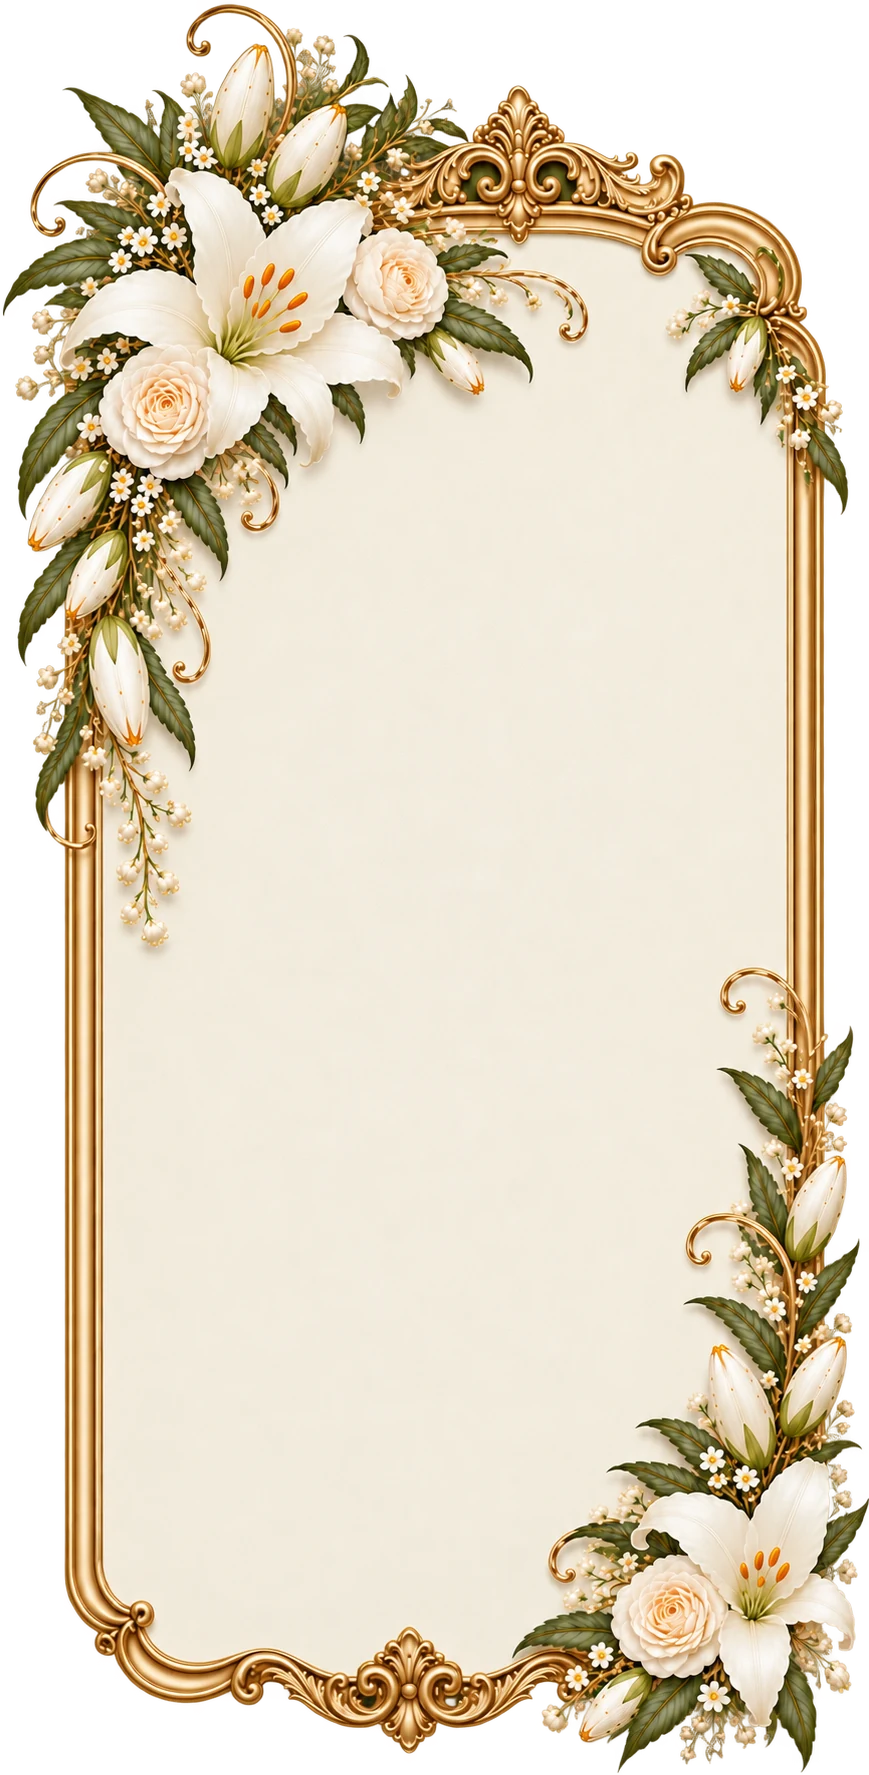
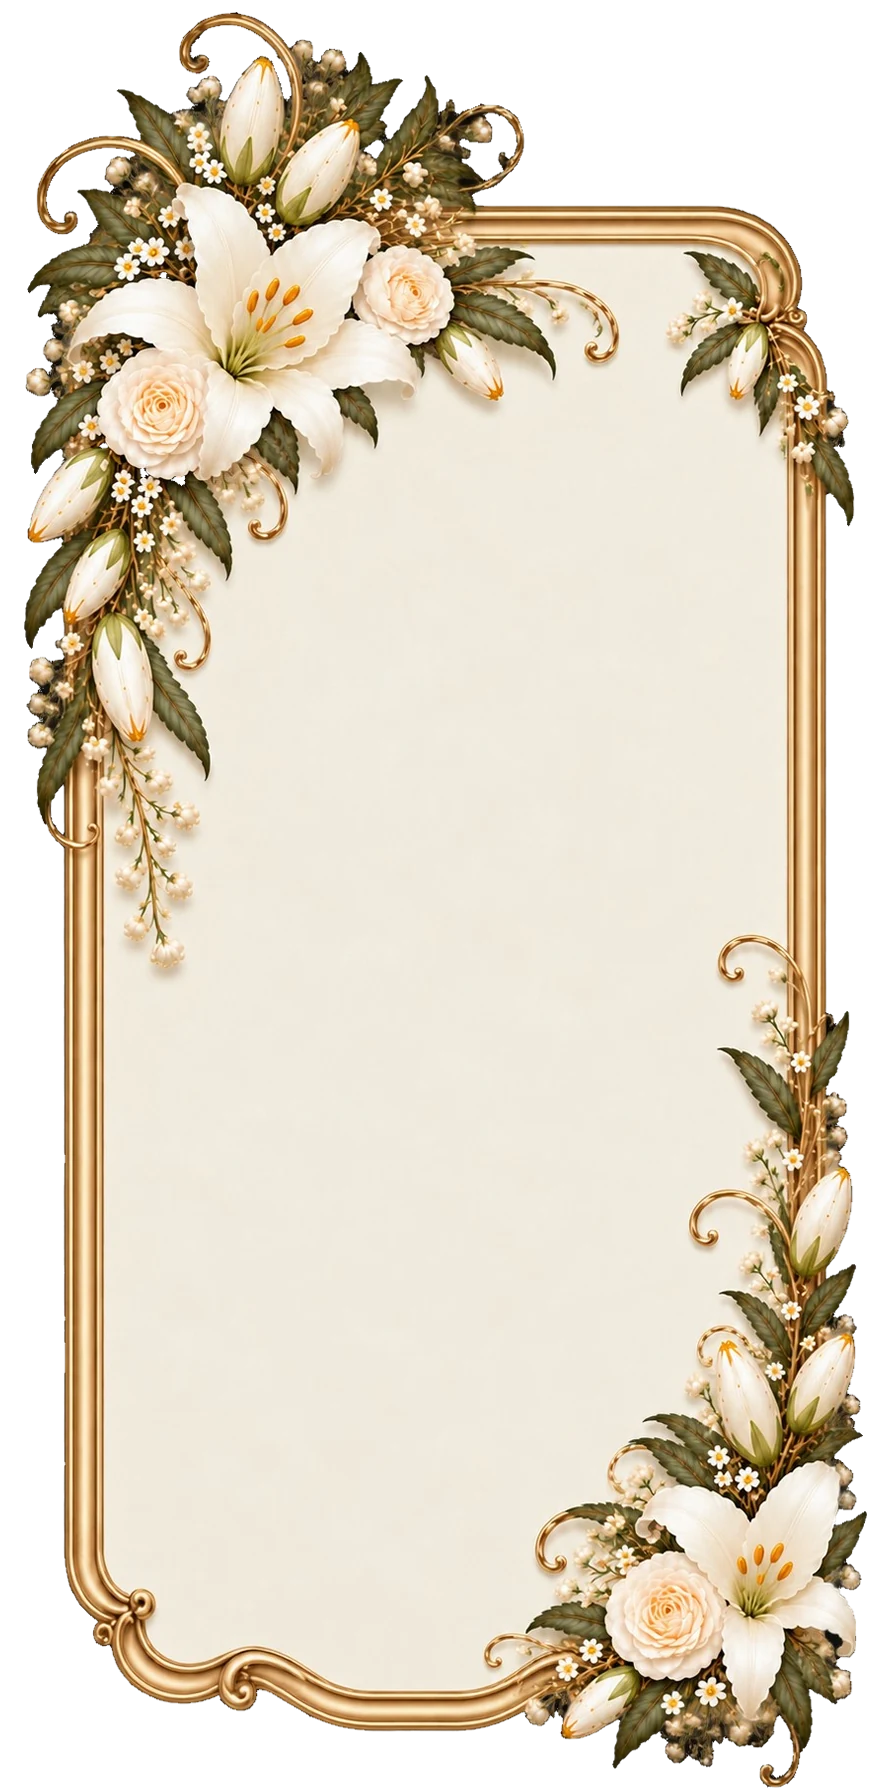
Replace the dress-code frame with the newly sent one
- The sent frame (884×1780 on black) cut out with a transparent
  background; the soft grey glow around the small white flowers turns
  translucent instead of grey, gold curls and leaves stay solid
- Aligned to the old frame's paper field (scale −1.3% wide, +0.4% high),
  so the text, divider, lily and form sit exactly where they were
- The new frame has no plain row band across its full width (the left
  bouquet hangs lower than the right one starts), so its left and right
  halves stretch along their own plain bands, joined in the middle of
  the paper

Claude-Session: https://claude.ai/code/session_01F539rLoJpLCsdJu3CTRbxi

Changed region(s): [[0.0, 0.0, 1.0, 1.0]]

diff --git a/style.css b/style.css
@@ -358,7 +358,7 @@ main {
   container-type: inline-size;
   color: var(--olive-text);
 }
-.panel::before {
+.panel::before, .panel--dress::after {
   content: "";
   position: absolute;
   inset: 0;
@@ -370,6 +370,11 @@ main {
   border-image-repeat: stretch;
   filter: drop-shadow(0 22px 30px rgba(60, 62, 40, .16));
 }
+/* у «Дресс-кода» ровной полосы на всю ширину нет (левый букет спускается ниже, чем начинается правый):
+   левая и правая половины – одна и та же картинка, каждая тянется по своей полосе; шов по середине бумаги,
+   половины заходят друг на друга на 3 px */
+.panel--dress::before { clip-path: inset(-10% calc(50% - 3px) -10% -10%); }
+.panel--dress::after { --cut-t: 528; --cut-b: 864; clip-path: inset(-10% -10% -10% calc(50% - 3px)); }
 .panel__body {
   display: flex;
   flex-direction: column;
@@ -378,7 +383,7 @@ main {
   padding: var(--pad);
 }
 .panel--invite { --frame: url(assets/img/frame-invite.webp); --frame-w: 942; --frame-h: 1533; --cut-t: 1020; --cut-b: 423; --pad: 50.5cqi 13cqi 14.5cqi; }
-.panel--dress { --frame: url(assets/img/frame-dress.webp); --frame-w: 869; --frame-h: 1775; --cut-t: 962; --cut-b: 808; --pad: 45cqi 16cqi 16cqi 20cqi; }
+.panel--dress { --frame: url(assets/img/frame-dress.webp); --frame-w: 869; --frame-h: 1790; --cut-t: 970; --cut-b: 237; --pad: 45cqi 16cqi 17.6cqi 20cqi; }
 
 .panel .title { font-size: 11cqi; line-height: .95; color: inherit; }
 .panel .text { max-width: none; margin: 2.2cqi 0 0; font-weight: 600; font-size: max(15px, 3.3cqi); line-height: 1.12; text-wrap: balance; }

diff --git a/index.html b/index.html
@@ -140,7 +140,7 @@
       </div>
     </section>
 
-    <!-- ============ ДРЕСС-КОД · ФОТО · АНКЕТА: присланная «Рамка 2» – фон, текст и анкета живые ============ -->
+    <!-- ============ ДРЕСС-КОД · ФОТО · АНКЕТА: присланная рамка – фон, текст и анкета живые ============ -->
     <section class="sec sec--panel" id="dress">
       <div class="col">
         <div class="panel panel--dress" data-reveal="frame">

diff --git a/tools/cut.py b/tools/cut.py
@@ -421,11 +421,11 @@ def ornament(name, rgb, clean, box, clear=None):
 
 
 # ---------- пятый набор: присланные рамки без текста (текст – на сайте), орнаменты – с образцов ----------
-# frame-1.webp, frame-2.webp – слои SVG «Рамка 1» и «Рамка 2», сведённые без изменений;
+# frame-1.webp – слои SVG «Рамка 1», сведённые без изменений; frame-dress.jpg – присланная рамка «Дресс-код»;
 # frame-pearl.webp – «Оригинальная жемчужно-золотая рамка» из Figma;
 # sample-*.jpg / sample-place.webp – образцы из архива «образец страниц сайта» (с них – лилия и линии «Адреса»).
 # На сайте прямоугольные рамки тянутся по высоте под текст: растягивается полоса с ровными планками
-# (строки 1020–1110 у «Рамки 1», 962–967 у «Рамки 2» – в кадре сохранённой картинки: только бумага и планки).
+# (у «Рамки 1» – строки 1020–1110; у «Дресс-кода» – своя полоса у левой и правой половины, см. frame_dress).
 
 def smooth_fill(rgb, known, sigma):
     """Плавная заливка по известным пикселям (взвешенное гауссово среднее);
@@ -453,19 +453,22 @@ def paper_tone(img, region, k=4, size=9, tol=8):
     return smooth_fill(img, known, 6)
 
 
-def cut_black(rgb):
+def cut_black(rgb, band=1):
     """Фон – чёрный: прозрачный, вместе с закрытыми просветами и тёмной каймой у края;
-    край силуэта – доля яркости от ближайшего пикселя изнутри (сглаживание без чёрного ореола)."""
+    край силуэта – доля яркости от ближайшего пикселя изнутри (сглаживание без чёрного ореола).
+    band > 1 – ещё и тусклое серое свечение на band пикселей от края (у мелких белых цветов) становится
+    полупрозрачным, а не серым; золото, листья и яркие цветы при этом не трогаются."""
     mx = rgb.max(2)
     dark = mx <= 10
     lab, n = ndi.label(dark)
     keep = np.zeros(n + 1, bool)
     keep[1:] = ndi.sum(dark, lab, range(1, n + 1)) >= 6
     bg = keep[lab]
+    glow = (mx - rgb.min(2) < 18) & (rgb.mean(2) < 150) if band > 1 else np.ones(mx.shape, bool)
     for _ in range(3):
-        bg |= ndi.binary_dilation(bg) & (mx < 45)
+        bg |= ndi.binary_dilation(bg) & (mx < 45) & glow
     fg = ndi.binary_opening(~bg, iterations=1)                 # без одиночных крошек
-    return edge_alpha(rgb, fg, lambda P, F: P.sum(2) / np.maximum(F.sum(2), 1), .4)
+    return edge_alpha(rgb, fg, lambda P, F: P.sum(2) / np.maximum(F.sum(2), 1), .4, band, glow)
 
 
 def cut_white(rgb, white=254.):
@@ -488,8 +491,10 @@ def cut_white(rgb, white=254.):
     return edge_alpha(rgb, fg, lambda P, F: (white - P).sum(2) / np.maximum((white - F).sum(2), 1), 0)
 
 
-def edge_alpha(rgb, fg, share, blur):
+def edge_alpha(rgb, fg, share, blur, band=1, soft=None):
     core = ndi.binary_erosion(fg, iterations=1)
+    if band > 1:                                               # широкий край – только у пикселей soft
+        core &= ndi.binary_erosion(fg, iterations=band) | ~soft
     _, (iy, ix) = ndi.distance_transform_edt(~core, return_indices=True)
     F = rgb[iy, ix]
     alpha = np.where(core, 1.0, np.where(fg, np.clip(share(rgb, F), 0, 1), 0.0))
@@ -516,11 +521,34 @@ def frame_invite():
     ornament('orn-heart', rgb, clean, (1292, 1378, 388, 492))
 
 
+# поле для текста у прежней рамки «Дресс-код» (в кадре 869 × 1775) и у присланной новой (frame-dress.jpg, 884 × 1780):
+# новая рамка приводится к прежнему полю, поэтому раскладка текста в style.css не меняется
+DRESS_FIELD_OLD = (107, 251, 782, 1654)
+DRESS_FIELD_NEW = (110, 238, 794, 1635)
+
+
 def frame_dress():
-    """«Рамка 2» как есть; лилия у «оставить для невесты» – с образца, отдельной картинкой."""
-    a = load_rgba('frame-2.webp')
-    rgb, alpha = a[..., :3], np.clip(a[..., 3] / 252, 0, 1)
-    save('frame-dress', rgb, alpha, quality=88)
+    """Рамка «Дресс-код» – присланная frame-dress.jpg: чёрный фон – прозрачный, рамка совмещена с полем прежней
+    (масштаб по ширине −1,3 %, по высоте +0,4 % – на глаз незаметно). Лилия у «оставить для невесты» – с образца.
+    Ровной полосы на всю ширину у рамки нет (левый букет ниже, чем начинается правый): печатает полосы
+    для растяжения левой и правой половин – --cut-* в style.css."""
+    rgb, alpha = cut_black(load('frame-dress.jpg'), band=4)
+    (ox0, oy0, ox1, oy1), (nx0, ny0, nx1, ny1) = DRESS_FIELD_OLD, DRESS_FIELD_NEW
+    sx, sy = (ox1 - ox0) / (nx1 - nx0), (oy1 - oy0) / (ny1 - ny0)
+    tx, ty = ox0 - nx0 * sx, oy0 - ny0 * sy
+    H = max(1775, int(np.ceil(np.where(alpha.max(1) > .03)[0][-1] * sy + ty)) + 3)
+    im = Image.fromarray(np.dstack([np.clip(rgb, 0, 255), alpha * 255]).round().astype(np.uint8), 'RGBA').convert('RGBa')
+    im = im.transform((869, H), Image.AFFINE, (1 / sx, 0, -tx / sx, 0, 1 / sy, -ty / sy), Image.BICUBIC).convert('RGBA')
+    a = np.asarray(im).astype(float)
+    rgb, alpha = a[..., :3], a[..., 3] / 255
+    save_full('frame-dress', rgb, alpha, quality=88)
+    flat = np.dstack([rgb * alpha[..., None], alpha[..., None] * 255])
+    busy = (np.abs(np.diff(flat, axis=0)).max(2) > 10)
+    for side, cols in (('левая', slice(0, 869 // 2)), ('правая', slice(869 // 2, 869))):
+        ys = np.where(busy[300:1650, cols].sum(1) <= 2)[0] + 300
+        runs = np.split(ys, np.where(np.diff(ys) > 1)[0] + 1)
+        r = max(runs, key=len)
+        print(f'  {side} половина тянется: строки {r[0] + 2}–{r[-1] - 2} (--cut-t {r[0] + 2}, --cut-b {H - r[-1] + 2}), кадр {H}')
     y0, y1, x0, x1 = 812, 930, 650, 798
     s = load('sample-dress.jpg')[y0:y1, x0:x1]
     paper = np.median(s.reshape(-1, 3), 0)

diff --git a/README.md b/README.md
@@ -29,7 +29,7 @@
    убран; текст живой, линии с лилией
    и подвеска под «Открыть на карте» – с образца.
 5. **Программа дня** – присланная рамка, по ширине золотой рамы – вровень с «Приглашением» и «Дресс-кодом»; время, подписи и стрелки со звёздочками – как на макете, текст живой.
-6–8. **Дресс-код, Фото, Анкета** – присланная «Рамка 2»; текст, поле имени, кружки и кнопка «Отправить» – живые,
+6–8. **Дресс-код, Фото, Анкета** – присланная рамка с лилиями; текст, поле имени, кружки и кнопка «Отправить» – живые,
    как на образце. После «Отправить» ответ уходит в Google Форму
    (`forms.gle/tFGab39fcvPiubak7`), в окне – «Спасибо!».
 9. **Финал** – обратный отсчёт до 21.07.2027, 14:00.
@@ -59,7 +59,8 @@
 - рамки – присланные, оформление не менялось, текст – на сайте:
   `frame-invite.webp` – «Рамка 1» (`frame-1.webp`, слои SVG сведены), чёрный фон вокруг – прозрачный, с поля убраны
   разделитель, линии и сердце (звёздочка `orn-sparkle.webp` и сердце `orn-heart.webp` – отдельно, на сайте);
-  `frame-dress.webp` – «Рамка 2» (`frame-2.webp`), лилия у «оставить для невесты» – `orn-lily.webp` с образца;
+  `frame-dress.webp` – присланная рамка (`frame-dress.jpg`), чёрный фон – прозрачный, совмещена с полем прежней рамки,
+  чтобы текст лёг так же; лилия у «оставить для невесты» – `orn-lily.webp` с образца;
   `frame-place.webp` – жемчужная рамка из Figma (`frame-pearl.webp`, 1086 × 1448), белый фон вокруг и в просветах
   кружева – прозрачный (блики на жемчуге остаются),
   приведена к кадру образца 1024 × 1536; линии с лилией и подвеска – `orn-rule*.webp`, `orn-pendant.webp` с образца;
